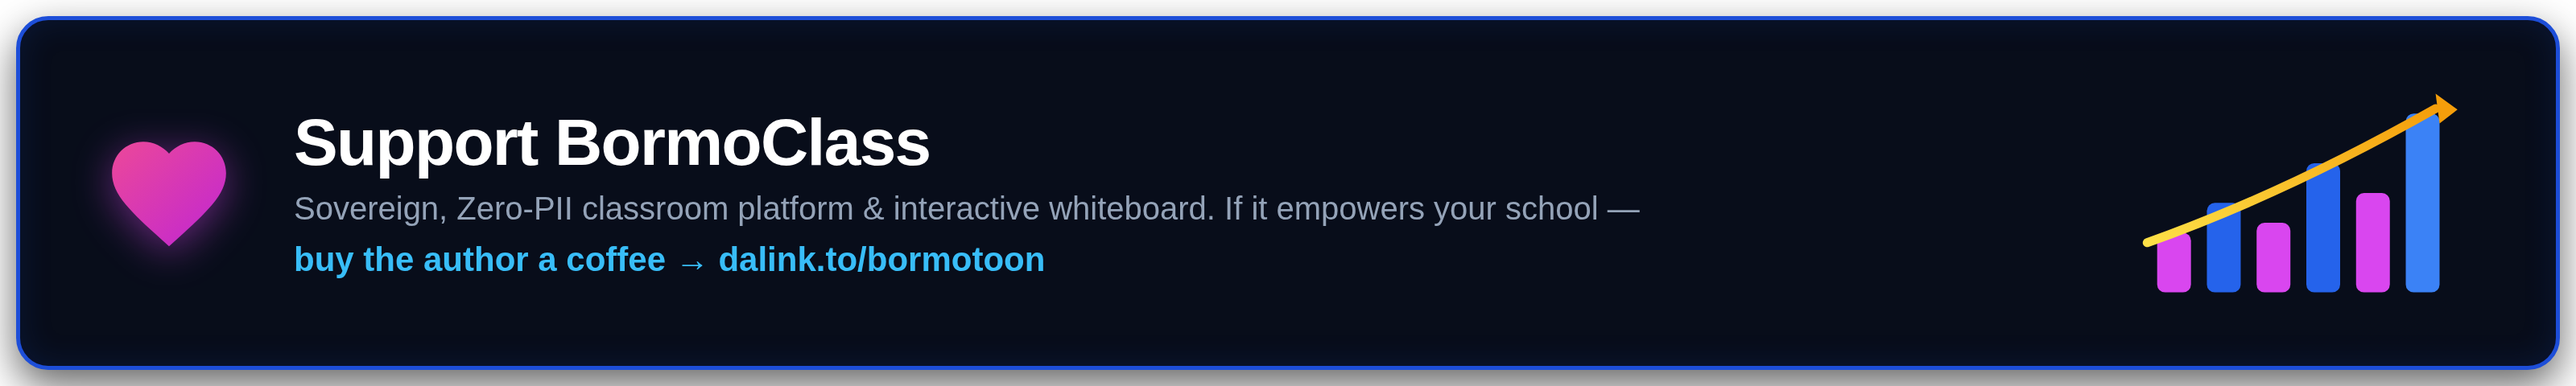
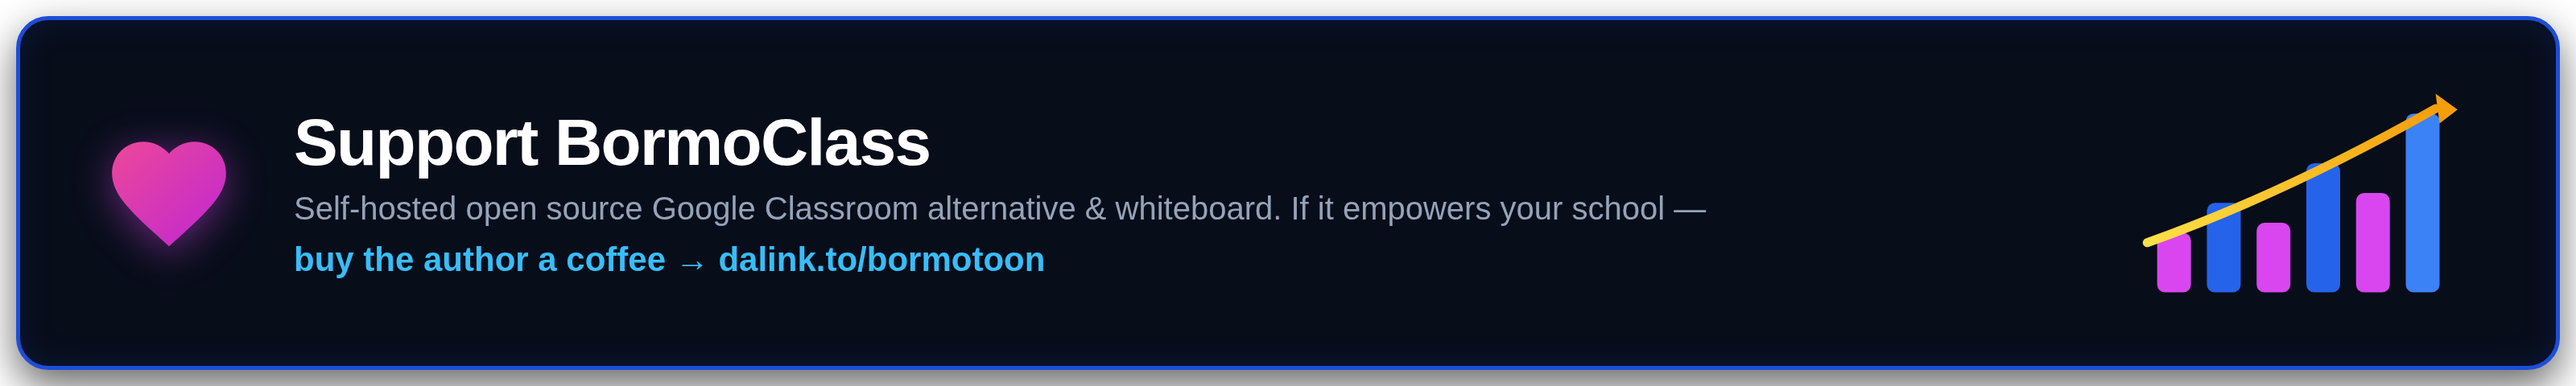
docs: position BormoClass as self-hosted open source Google Classroom alternative

Changed region(s): [[0.125, 0.5, 0.6562, 0.5938]]

diff --git a/scripts/generate_donate_banners.py b/scripts/generate_donate_banners.py
@@ -138,14 +138,14 @@ def generate():
         {
             "lang": "en",
             "title": "Support BormoClass",
-            "subtitle": "Sovereign, Zero-PII classroom platform & interactive whiteboard. If it empowers your school —",
+            "subtitle": "Self-hosted open source Google Classroom alternative & whiteboard. If it empowers your school —",
             "action": "buy the author a coffee → dalink.to/bormotoon",
             "out_png": "docs/assets/donate_banner.png",
         },
         {
             "lang": "ru",
             "title": "Поддержать BormoClass",
-            "subtitle": "Суверенная Zero-PII платформа и школьная доска. Если она помогает вашей школе —",
+            "subtitle": "Свободный self-hosted аналог Google Classroom и школьная доска. Если проект полезен вашей школе —",
             "action": "угостите автора кофе → dalink.to/bormotoon",
             "out_png": "docs/assets/donate_banner_ru.png",
         }

diff --git a/README.ru.md b/README.ru.md
@@ -1,16 +1,19 @@
 <div align="center">
 
 <p align="center">
-  <img src="docs/assets/banner.svg" alt="BormoClass — Суверенная Zero-PII платформа и интерактивная школьная доска" width="100%">
+  <img src="docs/assets/banner.svg" alt="BormoClass — Self-Hosted Open Source аналог Google Classroom" width="100%">
 </p>
 
 # BormoClass
 
-**Суверенная Zero-PII платформа управления школьным классом, SpeedGrader и 100% автономная интерактивная доска**<br>
-Полная совместимость с Google Classroom v1 REST API, педагогическая аналитика по В. П. Симонову, клиентское WebCrypto AES-256-GCM шифрование и 0 байт персональных данных по 152-ФЗ РФ.
+**Self-Hosted Open Source аналог Google Classroom со встроенной интерактивной доской и защитой приватности Zero-PII**<br>
+Полноценная свободная альтернатива Google Классу для школ, колледжей и вузов: привычные 4 раздела курса (Лента, Задания, Пользователи, Оценки), 100% паритет со спецификацией Google Classroom v1 REST API (все 105 методов), двухпанельный SpeedGrader, автономная доска Excalidraw, педагогическая аналитика по методике В. П. Симонова и 0 байт персональных данных на сервере по 152-ФЗ РФ.
 
 [![CI](https://github.com/Bormotoon/BormoClass/actions/workflows/ci.yml/badge.svg)](https://github.com/Bormotoon/BormoClass/actions/workflows/ci.yml)
 [![Лицензия: Apache-2.0](https://img.shields.io/badge/%D0%BB%D0%B8%D1%86%D0%B5%D0%BD%D0%B7%D0%B8%D1%8F-Apache--2.0-blue.svg)](LICENSE)
+[![Аналог Google Classroom](https://img.shields.io/badge/Google%20Classroom-%D0%A1%D0%B2%D0%BE%D0%B1%D0%BE%D0%B4%D0%BD%D1%8B%D0%B9%20%D0%B0%D0%BD%D0%B0%D0%BB%D0%BE%D0%B3-4285F4?logo=google-classroom&logoColor=white)](#-сравнение-google-classroom-vs-bormoclass)
+[![Open Source](https://img.shields.io/badge/Open%20Source-100%25%20%D0%91%D0%B5%D1%81%D0%BF%D0%BB%D0%B0%D1%82%D0%BD%D0%BE%20(Apache--2.0)-success.svg)](LICENSE)
+[![Self-Hosted](https://img.shields.io/badge/%D0%A0%D0%B0%D0%B7%D0%B2%D1%91%D1%80%D1%82%D1%8B%D0%B2%D0%B0%D0%BD%D0%B8%D0%B5-Self--Hosted-blueviolet.svg)](#-быстрый-старт-и-развёртывание)
 [![Zero-PII: 152--ФЗ РФ](https://img.shields.io/badge/Zero--PII-152--%D0%A4%D0%97%20%D0%A0%D0%A4-00A86B.svg)](docs/assets/zero-pii-flow.svg)
 [![Шифрование: WebCrypto AES--256--GCM](https://img.shields.io/badge/%D1%88%D0%B8%D1%84%D1%80%D0%BE%D0%B2%D0%B0%D0%BD%D0%B8%D0%B5-AES--256--GCM%20%2B%20ECDH-990000.svg)](app/static/js/e2ee-crypto.js)
 <br>
@@ -51,30 +54,34 @@
 
 ## 💡 Зачем нужен BormoClass?
 
-Современные школы и педагоги оказались перед сложной дилеммой: облачные платформы управления обучением (Google Classroom, Microsoft Teams, Canvas) удобны для выдачи и проверки заданий, но требуют тотального сбора персональных данных. Для каждого ребенка заводится учетная запись с реальными ФИО, привязкой к телефону или почте, цифровым следом и поведением, передаваемым на сервера зарубежных корпораций. В Российской Федерации это противоречит **152-ФЗ** («О персональных данных»), закону **273-ФЗ** («Об образовании в РФ») и требованиям цифрового суверенитета.
+Образовательные учреждения, школы, колледжи и преподаватели столкнулись с острой необходимостью замены зарубежных облачных платформ управления обучением (в первую очередь **Google Classroom** / Google Класс, а также Microsoft Teams и Canvas). Причины очевидны: санкционные риски, блокировки аккаунтов со стороны зарубежных провайдеров, прекращение работы сервисов (таких как Google Jamboard), требования цифрового суверенитета, а также строгое законодательство: **152-ФЗ** («О персональных данных») и **273-ФЗ** («Об образовании в РФ»). Коммерческие облачные сервисы требуют создания обязательных учетных записей с реальными ФИО, телефонами, почтой и СНИЛС детей, отправляя персональные данные и цифровой след за рубеж.
 
-**BormoClass** — **первая полностью бесплатная суверенная self-hosted платформа**, которая разрешает это противоречие в корне:
+**BormoClass** — **первый полноценный self-hosted open source аналог Google Classroom**, созданный для быстрого и независимого внедрения:
 
-1. **Абсолютный стандарт Zero-PII (152-ФЗ РФ):** Физический сервер, базы данных SQLite, HTTP-куки и логи содержат **ровно 0 байт персональных данных**. Ученики входят в систему по процедурно генерируемым словарным позывным (`Прилагательное-Существительное-Код`) и восстанавливают доступ по 4 секретным словам. ФИО, телефоны, email и СНИЛС физически не запрашиваются и не сохраняются.
-2. **Клиентское Zero-Knowledge шифрование (WebCrypto E2EE):** Любые конфиденциальные работы учеников, комментарии преподавателя, рукописные аннотации и рисунки на доске шифруются непосредственно в браузере по алгоритму WebCrypto **AES-256-GCM + ECDH P-256** с ключом на базе PIN-кода класса. Сервер видит только непрозрачные зашифрованные бинарные блобы.
-3. **100% автономная интерактивная школьная доска:** Встроенная сборка **Excalidraw 0.18.1** с вырезанными внешними вызовами, нулевой зависимостью от сторонних CDN, полной русификацией и панелью «Учителю» (линейка, транспортир, треугольник, циркуль и аутентичные школьные разлиновки: клетка 5 мм, косая линейка для 1 класса, широкая линейка, нотный стан, координатная сетка).
-4. **Педагогическая аналитика по методике В. П. Симонова:** Автоматический расчет степени обученности учащихся (**СОУ**), качества знаний (**КЗ**) и абсолютной успеваемости (**Усп**) с переводом в государственную 5-балльную шкалу оценок.
-5. **Полная совместимость с Google Classroom v1 REST API:** Стандартизированные эндпоинты (`/v1/courses`, `/v1/courseWork`, `/v1/studentSubmissions` и др.) позволяют бесшовно интегрировать платформу в школьные IT-системы без переписывания софта.
+1. **Настоящий Self-Hosted & 100% Open Source (Apache-2.0):** Платформа разворачивается на собственном сервере школы, личном VPS или даже в локальной изолированной сети (LAN) без доступа в интернет за пару минут через Docker Compose. Вы полностью контролируете свои данные и инфраструктуру. Никаких платных тарифов, рекламы, скрытых подписок и риска внезапного отключения сервиса вендором.
+2. **Привычный интерфейс и сценарии Google Classroom:** Структура курса воспроизводит 4 классических экрана Google Classroom: **«Лента»** (Stream), **«Задания»** (Classwork), **«Пользователи»** (People) и **«Оценки»** (Grades). Преподавателям и ученикам не нужно переучиваться — все действия (рубрики, дедлайны, темы, прикрепление файлов, проверка работ) работают точно так же, как в привычном Google Классе.
+3. **100% паритет с Google Classroom v1 REST API (105 методов):** Полная контрактная реализация официальной спецификации Google API Discovery v1 (`/v1/courses`, `/v1/courseWork`, `/v1/studentSubmissions` и т.д.). Любые школьные скрипты интеграции, чат-боты, выгрузки оценок и автоматизации продолжают работать без переписывания кода.
+4. **Абсолютный стандарт Zero-PII (152-ФЗ РФ):** Физический сервер, базы данных SQLite, HTTP-куки и логи содержат **ровно 0 байт персональных данных**. Ученики входят в систему по процедурно генерируемым словарным позывным (`Прилагательное-Существительное-Код`) и восстанавливают доступ по 4 секретным словам. ФИО, телефоны, email и СНИЛС физически не запрашиваются, не сохраняются и блокируются встроенным шлюзом `pii_guard.py`.
+5. **Клиентское Zero-Knowledge шифрование (WebCrypto E2EE):** Любые конфиденциальные работы учеников, комментарии преподавателя, рукописные аннотации и рисунки на доске шифруются непосредственно в браузере по алгоритму WebCrypto **AES-256-GCM + ECDH P-256** с ключом на базе PIN-кода класса. Сервер видит только непрозрачные зашифрованные бинарные блобы.
+6. **Встроенная замена Google Jamboard — 100% автономная доска:** Интегрированная сборка **Excalidraw 0.18.1** с вырезанными внешними вызовами, нулевой зависимостью от сторонних CDN, полной русификацией и панелью «Учителю» (линейка, транспортир, треугольник, циркуль и аутентичные школьные разлиновки: клетка 5 мм, косая линейка для 1 класса, широкая линейка, нотный стан, координатная сетка).
+7. **SpeedGrader и педагогическая аналитика по В. П. Симонову:** Двухпанельный просмотр работ с векторными пометками, рубриками и банком комментариев, автоматический расчет степени обученности учащихся (**СОУ**), качества знаний (**КЗ**) и абсолютной успеваемости (**Усп**) с переводом в государственную 5-балльную шкалу оценок.
 
 ---
 
 ### Сравнение: Google Classroom vs. BormoClass
 
-| Параметр сравнения | Google Classroom | BormoClass |
+| Параметр сравнения | Google Classroom | BormoClass (Свободный Self-Hosted аналог) |
 | :--- | :--- | :--- |
-| **Суверенитет и 152-ФЗ** | Облако корпорации Google. Обязательные аккаунты с реальными ФИО и передачей данных за рубеж. | **100% Self-Hosted & Суверенно**. Zero-PII (0 байт ПДн на сервере) с блокировкой ввода ФИО, телефонов и СНИЛС. |
-| **Шифрование данных** | Серверное шифрование облачными ключами Google KMS. Данные доступны провайдеру. | **Клиентское сквозное шифрование (E2EE)** на WebCrypto (AES-256-GCM). Сервер «ослеплен». |
+| **Развёртывание и владение** | Закрытое облако Google Cloud. Риск санкций, отключения аккаунтов и недоступности из РФ. | **100% Self-Hosted & Автономность**. Разворачивается на сервере школы, VPS или в локальной сети за 60 секунд. |
+| **Стоимость и лицензия** | Коммерческие подписки (Google Workspace for Education); привязка к вендору. | **100% бесплатно и Open Source (Apache-2.0)**. Никакой рекламы, подписок, монетизации и ограничений. |
+| **Суверенитет и 152-ФЗ** | Корпоративное облако. Обязательные аккаунты с реальными ФИО и передачей данных за рубеж. | **Абсолютный стандарт Zero-PII**. 0 байт ПДн на сервере, защита от ввода ФИО, телефонов и СНИЛС по 152-ФЗ. |
+| **Шифрование данных** | Серверное шифрование ключами Google KMS. Данные доступны облачному провайдеру. | **Клиентское сквозное шифрование (E2EE)** на WebCrypto (AES-256-GCM). Сервер «ослеплен». |
+| **Google Classroom API v1** | Требует создания проектов в Google Cloud Console, сервисных аккаунтов и OAuth2. | **100% паритет REST API (все 105 методов)** спецификации Google Classroom v1 прямо на вашем сервере. |
 | **Интерактивная доска** | Google Jamboard закрыт; требует подключения сторонних платных SaaS-сервисов. | **Встроенная автономная Excalidraw 0.18.1** с чертежными инструментами и школьными сетками тетрадей. |
 | **SpeedGrader и проверка** | Базовая панель; комментирование требует подключения Google Docs. | **Полноценный двухпанельный SpeedGrader** с векторным слоем аннотаций, рубриками и банком комментариев. |
 | **Педагогическая аналитика** | Простой средний арифметический балл без учета методики оценки. | **Методика В. П. Симонова** с автоматическим расчетом показателей **СОУ**, **КЗ** и **Усп** в реальном времени. |
 | **Тестирование и антиплагиат** | Перенаправление в Google Forms; ученик может переключать вкладки. | **Плеер тестов (6 типов вопросов)** с контролем потери фокуса вкладки и локальный AST-антиплагиат. |
 | **Нормы СанПиН и Минпроса** | Отсутствуют. Сервису неизвестны требования санитарных правил РФ. | **Запрет ДЗ для 1 класса** (`grade_level == 1`) и программный таймер непрерывной работы с экраном по **СанПиН**. |
-| **Стоимость и лицензия** | Платные подписки Workspace for Education Plus; риск блокировки аккаунтов. | **100% бесплатно и Open Source (Apache-2.0)**. Никакой рекламы, подписок и монетизации. |
 
 ---
 
@@ -489,7 +496,7 @@ python3 scripts/e2e_smoke.py
 
 ## 📡 REST API и совместимость с Google Classroom
 
-Платформа поддерживает все основные эндпоинты спецификации Google Classroom API v1 с префиксом `/v1/`:
+BormoClass является полноценной self-hosted заменой Google Classroom «из коробки», обеспечивая 100% паритет с официальной спецификацией Google Classroom v1 REST API (все 105 методов из Discovery Schema v1 зарегистрированы под префиксом `/v1/`):
 
 | Эндпоинт API | Метод | Описание |
 | :--- | :--- | :--- |

diff --git a/README.md b/README.md
@@ -1,16 +1,19 @@
 <div align="center">
 
 <p align="center">
-  <img src="docs/assets/banner.svg" alt="BormoClass — Sovereign Zero-PII LMS & Interactive Whiteboard" width="100%">
+  <img src="docs/assets/banner.svg" alt="BormoClass — Self-Hosted Open Source Google Classroom Alternative" width="100%">
 </p>
 
 # BormoClass
 
-**Sovereign, Zero-PII Classroom Management System, SpeedGrader & 100% Offline Interactive Whiteboard**<br>
-Full Google Classroom v1 REST API parity, Simonov educational analytics, client-side WebCrypto AES-256-GCM encryption, and 0 bytes of server-side personal data under Russian Federal Law 152-FZ.
+**Self-Hosted Open Source Google Classroom Alternative & Sovereign Zero-PII LMS**<br>
+Full Google Classroom v1 REST API parity (105 methods), 100% offline interactive school whiteboard, split-screen SpeedGrader, Simonov educational analytics, client-side WebCrypto AES-256-GCM encryption, and 0 bytes of server-side personal data under Russian Federal Law 152-FZ.
 
 [![CI](https://github.com/Bormotoon/BormoClass/actions/workflows/ci.yml/badge.svg)](https://github.com/Bormotoon/BormoClass/actions/workflows/ci.yml)
 [![License: Apache-2.0](https://img.shields.io/badge/license-Apache--2.0-blue.svg)](LICENSE)
+[![Google Classroom: Self-Hosted Alternative](https://img.shields.io/badge/Google%20Classroom-Self--Hosted%20Alternative-4285F4?logo=google-classroom&logoColor=white)](#-google-classroom-vs-bormoclass)
+[![Open Source](https://img.shields.io/badge/Open%20Source-100%25%20Free%20(Apache--2.0)-success.svg)](LICENSE)
+[![Self-Hosted](https://img.shields.io/badge/Deployment-Self--Hosted-8A2BE2.svg)](#-quick-start--deployment)
 [![Zero-PII: 152--FZ RF](https://img.shields.io/badge/Zero--PII-152--%D0%A4%D0%97%20%D0%A0%D0%A4-00A86B.svg)](docs/assets/zero-pii-flow.svg)
 [![Encryption: WebCrypto AES--256--GCM](https://img.shields.io/badge/Encryption-AES--256--GCM%20%2B%20ECDH-990000.svg)](app/static/js/e2ee-crypto.js)
 <br>
@@ -51,30 +54,34 @@ Full Google Classroom v1 REST API parity, Simonov educational analytics, client-
 
 ## 💡 Why BormoClass?
 
-Modern educational institutions face a profound dilemma: cloud learning management systems (LMS) such as Google Classroom, Microsoft Teams, and Canvas offer streamlined assignment workflows, but they demand exhaustive personal data collection. School-wide email accounts, legal student names, phone numbers, surveillance telemetry, and behavioral footprints are routinely uploaded to centralized corporate cloud silos. In the Russian Federation, this conflicts directly with **Federal Law 152-FZ** ("On Personal Data"), **Federal Law 273-FZ** ("On Education in the Russian Federation"), and strict municipal sovereignty mandates.
+Modern educational institutions face a critical challenge: proprietary cloud learning management systems (LMS) such as Google Classroom, Microsoft Teams, and Canvas offer streamlined assignment workflows, but they demand exhaustive personal data collection, impose heavy vendor lock-in, and rely on centralized corporate cloud infrastructure. School-wide email accounts, legal student names, phone numbers, surveillance telemetry, and behavioral footprints are routinely uploaded to overseas cloud silos. In many jurisdictions — including the Russian Federation under **Federal Law 152-FZ** ("On Personal Data") and **Federal Law 273-FZ** ("On Education in the Russian Federation") — institutional data sovereignty and privacy mandates make reliance on proprietary US cloud services legally problematic or impossible.
 
-**BormoClass** is the **first sovereign, self-hosted, 100% free LMS** that completely resolves this contradiction:
+**BormoClass** is the **first sovereign, self-hosted, 100% free and open-source alternative to Google Classroom**:
 
-1. **Absolute Zero-PII Standard (152-FZ RF):** Physical servers, SQLite databases, HTTP session cookies, and operational logs store **0 bytes of student personal data**. Students onboard using anonymous procedurally generated callsigns (`Adjective-Noun-Code`) and 4-word recovery passphrases. Real names, email addresses, phone numbers, and Russian national identifiers (SNILS) are never requested, stored, or processed.
-2. **Client-Side Zero-Knowledge Encryption (WebCrypto E2EE):** Any sensitive student submissions, private teacher remarks, rubric annotations, and canvas drawings are encrypted directly in the browser via WebCrypto **AES-256-GCM + ECDH P-256** using class PIN-derived keys. The backend server acts solely as a blinded content-addressable storage (CAS) engine.
-3. **100% Offline Interactive School Board:** Integrates an offline-hardened fork of **Excalidraw 0.18.1** with zero CDN dependencies, complete Russian localization, and a dedicated Teacher Tools panel (`linear ruler`, `protractor`, `set square`, `compass`, and authentic Russian notebook rulings: 5mm grid, 1st-grade slanted guidelines, wide lines, music staves, and coordinate planes).
-4. **Pedagogical Analytics by V. P. Simonov:** Built-in gradebook matrix with Russian 5-point scale translation and exact mathematical evaluation of **СОУ** (Degree of Student Learning), **КЗ** (Quality of Knowledge), and **Усп** (Absolute Performance).
-5. **Full Google Classroom v1 REST API Compatibility:** Standardized endpoints (`/v1/courses`, `/v1/courseWork`, `/v1/studentSubmissions`, etc.) allow dropping BormoClass into existing school software infrastructures with zero integration friction.
+1. **True Self-Hosting & 100% Open Source (Apache-2.0):** Run BormoClass entirely on your institution's own servers, school VPS, or air-gapped local network. You own 100% of your data and infrastructure. Zero licensing fees, zero ads, zero telemetry, and zero risk of cloud account deplatforming or service sunset.
+2. **Drop-In Google Classroom Experience:** Built around the iconic 4-screen layout that educators and students already master: **Stream**, **Classwork**, **People**, and **Grades** (*Лента*, *Задания*, *Пользователи*, *Оценки*). Teachers organize materials by topic, publish assignments with rubrics and deadlines, conduct class discussions, and grade submissions with zero learning curve.
+3. **Full Google Classroom v1 REST API Parity (105 Methods):** Directly implements the official Google Classroom API Discovery v1 specification (`/v1/courses`, `/v1/courseWork`, `/v1/studentSubmissions`, etc.). School automation scripts, grade exporters, roster synchronizers, and bot integrations work out-of-the-box.
+4. **Absolute Zero-PII Standard (152-FZ RF):** Physical servers, SQLite databases, HTTP session cookies, and operational logs store **0 bytes of student personal data**. Students onboard using anonymous procedurally generated callsigns (`Adjective-Noun-Code`) and 4-word recovery passphrases. Real names, email addresses, phone numbers, and Russian national identifiers (SNILS) are never requested, stored, or processed.
+5. **Client-Side Zero-Knowledge Encryption (WebCrypto E2EE):** Any sensitive student submissions, private teacher remarks, rubric annotations, and canvas drawings are encrypted directly in the browser via WebCrypto **AES-256-GCM + ECDH P-256** using class PIN-derived keys. The backend server acts solely as a blinded content-addressable storage (CAS) engine.
+6. **100% Offline Interactive School Board (Excalidraw 0.18.1):** Replaces the discontinued Google Jamboard with an integrated, air-gapped whiteboard featuring zero external CDN dependencies, complete Russian localization, and a dedicated Teacher Tools panel (`linear ruler`, `protractor`, `set square`, `compass`, and authentic Russian notebook rulings: 5mm grid, 1st-grade slanted guidelines, wide lines, music staves, and coordinate planes).
+7. **Two-Pane SpeedGrader & Simonov Pedagogical Analytics:** Split-screen SpeedGrader with freehand vector annotations, rubrics, comment bank, Russian 5-point scale translation, and exact mathematical evaluation of **СОУ** (Degree of Student Learning), **КЗ** (Quality of Knowledge), and **Усп** (Absolute Performance).
 
 ---
 
 ### Google Classroom vs. BormoClass
 
-| Architectural Dimension | Google Classroom | BormoClass |
+| Architectural Dimension | Google Classroom | BormoClass (Self-Hosted Open Source Alternative) |
 | :--- | :--- | :--- |
-| **Data Sovereignty & Privacy** | Corporate cloud (Google Cloud). Mandatory student Google Workspace accounts with real PII. | **100% Self-Hosted & Sovereign**. Zero-PII (0 bytes PII on server) with strict 152-FZ regex gates. |
-| **Data Encryption at Rest** | Server-side transparent encryption under Google-managed cloud KMS keys. | **Client-Side Zero-Knowledge WebCrypto E2EE** (AES-256-GCM + ECDH P-256). Server is blinded. |
-| **Interactive School Whiteboard** | Deprecated / Discontinued Google Jamboard; requires external 3rd-party SaaS boards. | **Built-in Offline Excalidraw 0.18.1** with teacher geometry tools & Russian notebook rulings. |
+| **Hosting & Deployment** | Proprietary SaaS cloud (Google Cloud). Closed-source, subject to sanctions, outages, and regional blocks. | **100% Self-Hosted & Air-Gap Ready**. Run on your own school server, VPS, or LAN via Docker Compose in 60 seconds. |
+| **Licensing & Cost** | Commercial subscription tiers (Google Workspace for Education Plus); corporate vendor lock-in. | **100% Free & Open Source (Apache-2.0)**. Zero subscription fees, zero ads, zero paywalls, zero telemetry. |
+| **Data Sovereignty & Privacy** | Centralized corporate cloud. Mandatory student Google accounts with real personal data (PII). | **Absolute Zero-PII Standard**. 0 bytes student PII on server; strict 152-FZ regex firewall (`pii_guard.py`). |
+| **Data Encryption at Rest** | Server-side transparent encryption under Google-managed cloud KMS keys. | **Client-Side Zero-Knowledge WebCrypto E2EE** (AES-256-GCM + ECDH P-256). Backend is blinded. |
+| **Google Classroom API v1** | Official cloud API gated by Google Cloud Console project approvals and OAuth2 scopes. | **Full Google Classroom v1 REST API Parity (105 methods)** implemented locally under `/v1/`. |
+| **Interactive School Whiteboard** | Deprecated / Discontinued Google Jamboard; requires external 3rd-party paid SaaS boards. | **Built-in Offline Excalidraw 0.18.1** with teacher geometry tools & Russian notebook rulings. |
 | **Grading & SpeedGrader** | Basic grading pane; document annotations require Google Docs viewer integration. | **Full Split-Screen SpeedGrader** with vector canvas annotations, rubrics, comment bank & AST anti-plagiarism. |
 | **Educational Analytics** | Raw arithmetic point averages; no localized pedagogical metrics. | **V. P. Simonov's Methodology** with real-time computation of **СОУ**, **КЗ**, and **Усп** percentages. |
 | **Testing & Practice Sets** | Google Forms redirect; external tab switching with zero focus-loss awareness. | **Integrated Quiz Player (6 question types)** with tab visibility monitoring and hint-enabled Practice Sets. |
 | **National Standards & SanPiN** | None. No awareness of national educational or hygienic regulations. | **Grade 1 homework ban** (`grade_level == 1`) and live **SanPiN 1.2.3685-21 screen-time timer**. |
-| **Licensing & Cost** | Subscription tiers (Google Workspace for Education Plus); corporate vendor lock-in. | **100% Free & Open Source (Apache-2.0)**. Zero ads, zero paywalls, zero telemetry. |
 
 ---
 
@@ -489,7 +496,7 @@ python3 scripts/e2e_smoke.py
 
 ## 📡 REST API & Google Classroom Compatibility
 
-Every standard Google Classroom v1 endpoint is supported under the `/v1/` prefix:
+BormoClass serves as a true drop-in self-hosted replacement for Google Classroom, featuring full protocol parity with the official Google Classroom v1 REST API (all 105 discovery methods registered under the `/v1/` prefix):
 
 | Endpoint Resource | HTTP Method | Description |
 | :--- | :--- | :--- |

diff --git a/board-src/README.md b/board-src/README.md
@@ -1,12 +1,13 @@
-# Интерактивная доска — `app.педобраз.рф/board/`
+# Интерактивная доска BormoClass — автономная замена Google Jamboard
+
+Встроенный компонент интерактивной школьной доски для **BormoClass** — суверенного self-hosted open source аналога Google Classroom.
 
 Холст урока в браузере: рисование от руки, фигуры, стрелки с привязкой, текст,
-картинки, личная библиотека фигур, экспорт в PNG/SVG и в файл `.excalidraw`.
-Учителю не нужно ничего устанавливать — только открыть ссылку.
+картинки, школьные тетрадные разлиновки (клетка 5 мм, косая линейка для 1 класса, широкая линейка, нотный стан, координатная сетка), чертёжные инструменты (линейка, транспортир, треугольник, циркуль), личная библиотека фигур, экспорт в PNG/SVG и в файл `.excalidraw`.
+Учителю не нужно ничего устанавливать — только открыть ссылку. В отличие от закрытого и отключенного корпорацией Google сервиса Google Jamboard, доска BormoClass на 100% автономна, не зависит от внешних CDN и полностью бесплатна.
 
 **Бэкенда нет.** Рисунок хранится в IndexedDB браузера учителя и никуда не
-отправляется; выгрузка картинкой и в файл считается на клиенте. Нагрузка на наш
-сервер — раздача статики, как у `flexbox`, `phet` и `mindmap`.
+отправляется (строгий Zero-PII); выгрузка картинкой и в файл считается на клиенте. Нагрузка на сервер — только быстрая локальная раздача статики.
 
 ---
 

diff --git a/docs/google_classroom/README.md b/docs/google_classroom/README.md
@@ -1,6 +1,8 @@
-# Официальная документация и архитектурная спецификация Google Classroom
+# BormoClass — Архитектурная спецификация и документация аналога Google Classroom
 
-Данный каталог содержит полный комплект официальной документации Google Classroom API v1, руководств разработчика Google Workspace, а также подробную архитектурную спецификацию и схемы данных для реализации аналога в проекте **BormoClass**.
+Данный каталог содержит полный комплект официальной документации Google Classroom API v1, руководств разработчика Google Workspace, а также подробную архитектурную спецификацию, ERD-диаграммы и схемы данных, на базе которых реализован **BormoClass** — суверенный self-hosted open source аналог Google Classroom.
+
+В BormoClass реализован полный паритет со спецификацией Google Classroom v1 REST API (все 105 HTTP-методов Discovery Schema v1), классическая 4-экранная модель курса («Лента», «Задания», «Пользователи», «Оценки»), а также встроенная замена Google Jamboard — автономная интерактивная школьная доска на базе Excalidraw.
 
 ---
 

diff --git a/docs/google_classroom/architecture/04_BORMOCLASS_ANALOG_BLUEPRINT.md b/docs/google_classroom/architecture/04_BORMOCLASS_ANALOG_BLUEPRINT.md
@@ -1,6 +1,6 @@
 # Руководство по реализации аналога в BormoClass (Implementation Blueprint)
 
-Этот документ описывает, как перенести архитектуру и лучшие практики Google Classroom в проект **BormoClass**, объединив классический LMS-функционал с интерактивной онлайн-доской (Whiteboard).
+Этот документ описывает, как в проекте **BormoClass** реализован полноценный **self-hosted open source аналог Google Classroom**, объединяющий классический LMS-функционал Google Класса со встроенной интерактивной школьной доской (автономная замена Google Jamboard) и стандартом приватности Zero-PII (152-ФЗ РФ).
 
 ---
 

diff --git a/SECURITY.md b/SECURITY.md
@@ -2,7 +2,7 @@
 
 ## 🛡 Zero-PII & Threat Model Commitments
 
-**BormoClass** is architected around a Zero-Trust, Zero-PII threat model designed to comply with Russian Federal Law **152-FZ** (Personal Data Protection) and strict international data sovereignty standards.
+**BormoClass** is a self-hosted, open-source alternative to Google Classroom architected around a Zero-Trust, Zero-PII threat model designed to comply with Russian Federal Law **152-FZ** (Personal Data Protection) and strict international data sovereignty standards.
 
 The core security invariants are:
 1. **0 Bytes of PII on Server**: The backend database (SQLite WAL), server logs, caching layers, and HTTP headers never store real student names, emails, phone numbers, Russian national IDs (SNILS, Passport numbers), or location data.

diff --git a/CONTRIBUTING.md b/CONTRIBUTING.md
@@ -1,6 +1,6 @@
 # Contributing to BormoClass
 
-Thank you for your interest in contributing to **BormoClass**! We welcome bug reports, feature suggestions, architectural improvements, and code contributions from educators, developers, and security researchers worldwide.
+Thank you for your interest in contributing to **BormoClass** — the self-hosted, open-source alternative to Google Classroom with an integrated offline whiteboard and sovereign Zero-PII privacy architecture! We welcome bug reports, feature suggestions, architectural improvements, and code contributions from educators, developers, and security researchers worldwide.
 
 ---
 
